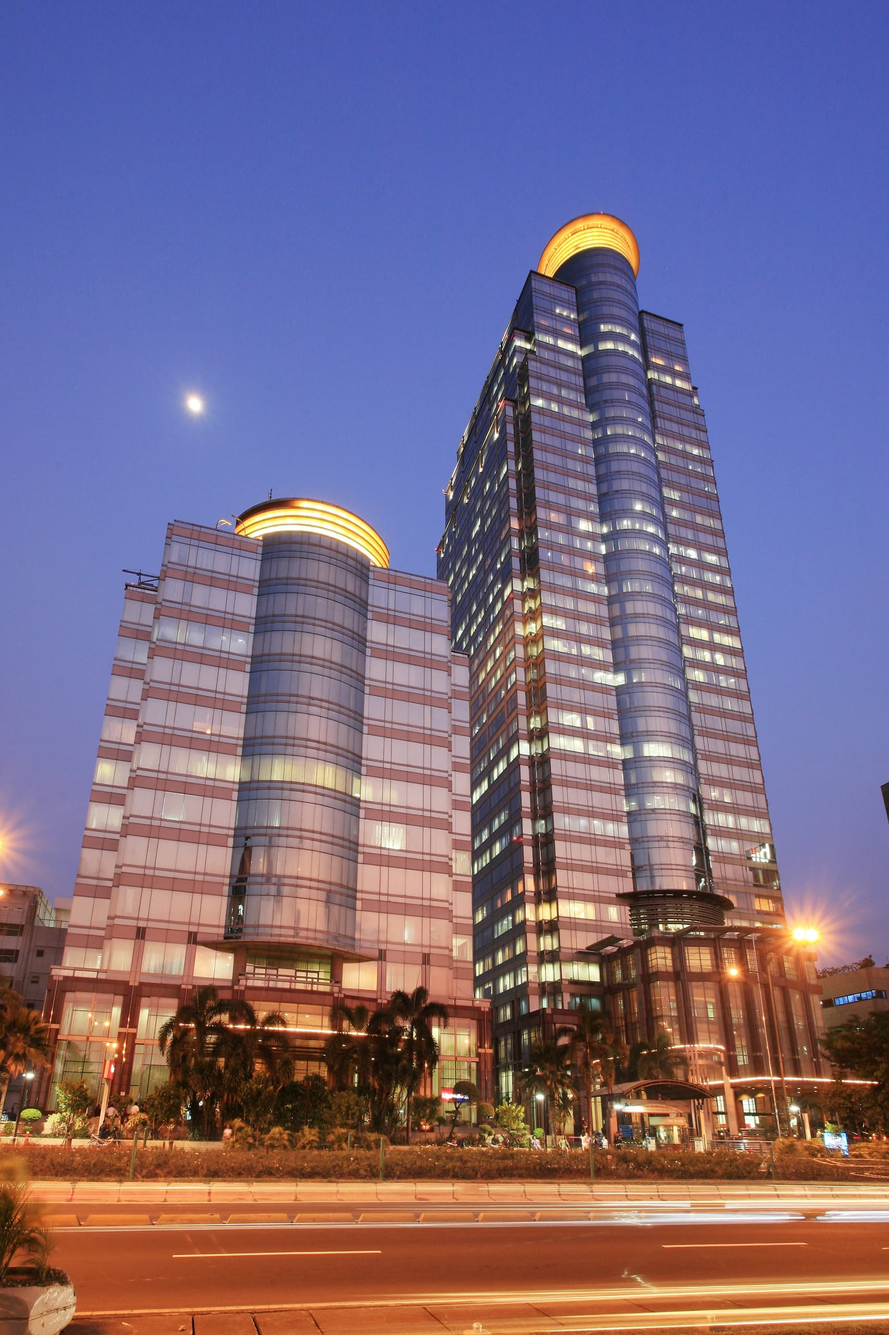
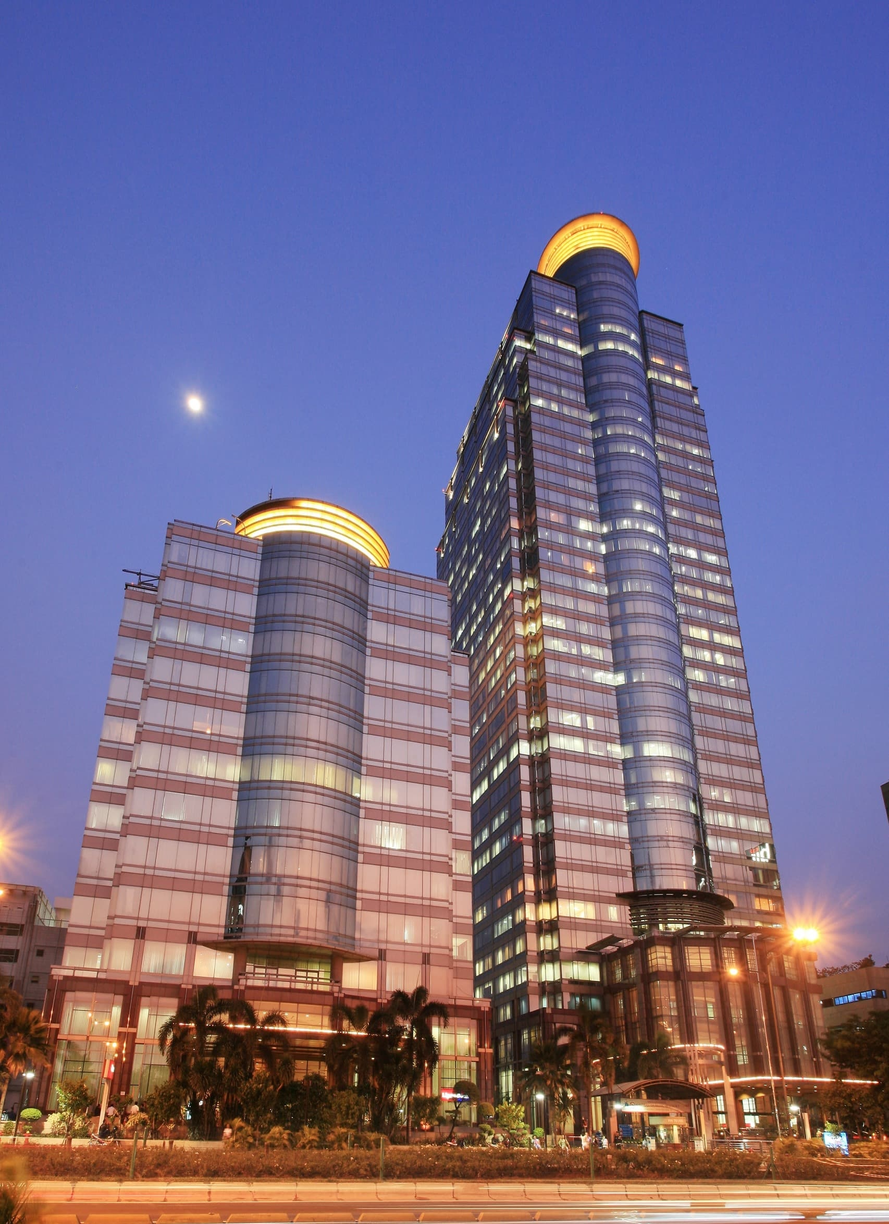
Merged PR 9779: User Story 13688: UI login page and file name masking
User Story 13688: UI login page and file name masking

![CleanShot 2025-12-04 at 15.25.10@2x.png](blob:https://dev.azure.com/c67b3a33-1158-4939-984c-53d381a8783d)

diff --git a/src/components/search-result-item.tsx b/src/components/search-result-item.tsx
@@ -12,7 +12,7 @@ type Props = {
 
 export default function SearchResultItem({ result }: Props) {
   if (result.fileName.includes("****")) {
-    return <SearchResultItemPrivate result={result} />;
+    return <SearchResultItemMasked result={result} />;
   }
 
   return (
@@ -53,10 +53,49 @@ export default function SearchResultItem({ result }: Props) {
   );
 }
 
-export function SearchResultItemPrivate({ result }: Props) {
+export function SearchResultItemMasked({ result }: Props) {
+  const renderMaskedText = (text: string) => {
+    const parts = text.split(/(\*{2,})/);
+
+    return parts.map((part, index) => {
+      if (/^\*{2,}$/.test(part)) {
+        const width = Math.min(part.length * 8, 200);
+
+        return (
+          <span
+            key={index}
+            className="inline-block h-4 rounded-md bg-blue-100 align-middle"
+            style={{ width: `${width}px` }}
+          />
+        );
+      }
+
+      return <span key={index}>{part}</span>;
+    });
+  };
+
+  const renderMaskedPath = (path: string) => {
+    const parts = path.split(/(\*{2,})/);
+
+    return parts.map((part, index) => {
+      if (/^\*{2,}$/.test(part)) {
+        const width = Math.min(part.length * 6, 150);
+
+        return (
+          <span
+            key={index}
+            className="inline-block h-3 rounded-md bg-muted align-middle"
+            style={{ width: `${width}px` }}
+          />
+        );
+      }
+
+      return <span key={index}>{part}</span>;
+    });
+  };
+
   return (
     <div className="w-full border-b border-muted pb-6">
-      {/* top row: icon + meta (email, path) */}
       <div className="flex items-center gap-4 mb-3">
         <div className="shrink-0 p-1 bg-muted rounded-full">
           <Image
@@ -68,25 +107,22 @@ export function SearchResultItemPrivate({ result }: Props) {
           />
         </div>
         <div className="flex flex-col min-w-0 gap-1">
-          {/* ownerEmail */}
           <TypographyP className="text-sm truncate gap-2 flex flex-row">
             {result.ownerEmail}
             <AccessBadge file={result} />
           </TypographyP>
-          {/* filePath */}
-          <Skeleton className="h-3 w-56 max-w-[70vw] rounded-md animate-none mt-1" />
+          <div className="text-xs text-muted-foreground mt-1 flex items-center gap-1">
+            {renderMaskedPath(result.filePath)}
+          </div>
         </div>
       </div>
 
-      {/* fileName */}
-      <h2 className="text-base font-semibold leading-snug flex items-center">
-        <p className="text-blue-600 wrap-break-word sm:truncate max-w-[calc(100vw-24px)] overflow-hidden">
-          {result.fileName.replace("****", "")}
-        </p>
-        <Skeleton className="h-4 w-3xs max-w-screen rounded-none rounded-r-md bg-blue-100 animate-none" />
+      <h2 className="text-base font-semibold leading-snug flex items-center gap-1">
+        <div className="text-blue-600 wrap-break-word flex items-center gap-1">
+          {renderMaskedText(result.fileName)}
+        </div>
       </h2>
 
-      {/* updatedTime */}
       <div className="text-sm mt-2 text-muted-foreground">
         <Skeleton className="h-4 w-28 rounded-md animate-none" />
       </div>
@@ -97,26 +133,20 @@ export function SearchResultItemPrivate({ result }: Props) {
 export function SearchResultItemSkeleton() {
   return (
     <div className="w-full border-b border-muted pb-6">
-      {/* top row: icon + meta (email, path) */}
       <div className="flex items-center gap-4 mb-3">
         <div className="shrink-0 p-1 bg-muted rounded-full">
-          {/* match the 32px wrapper w/ 24px image */}
           <Skeleton className="w-6 h-6 rounded-full" />
         </div>
         <div className="flex flex-col min-w-0 gap-1">
-          {/* ownerEmail */}
           <Skeleton className="h-4 w-40 max-w-[60vw] rounded-md" />
-          {/* filePath */}
           <Skeleton className="h-3 w-56 max-w-[70vw] rounded-md" />
         </div>
       </div>
 
-      {/* fileName */}
       <h2 className="text-base font-semibold leading-snug">
         <Skeleton className="h-4 w-3xs max-w-screen rounded-md bg-blue-100" />
       </h2>
 
-      {/* updatedTime */}
       <div className="text-sm mt-2 text-muted-foreground">
         <Skeleton className="h-4 w-28 rounded-md" />
       </div>

diff --git a/src/components/access-badge.tsx b/src/components/access-badge.tsx
@@ -17,7 +17,6 @@ export default async function AccessBadge({ file }: Props) {
     if (fileSource === "onedrive") {
       if (allowList.includes(user?.email ?? "") || user?.email === ownerEmail) {
         return {
-          color: "text-green-500",
           title: "Private: Full Access",
           iconPath: "/images/private-full-access.svg",
           svgColor:
@@ -26,7 +25,6 @@ export default async function AccessBadge({ file }: Props) {
       }
 
       return {
-        color: "text-red-500",
         title: "Private: Forbidden",
         iconPath: "/images/forbidden-access.svg",
         svgColor:
@@ -35,7 +33,6 @@ export default async function AccessBadge({ file }: Props) {
     }
 
     return {
-      color: "text-yellow-500",
       title: "Private: Restricted",
       iconPath: "/images/restricted-access.svg",
       svgColor:

diff --git a/src/app/login/page.tsx b/src/app/login/page.tsx
@@ -33,7 +33,6 @@ export default function Login() {
           alt="Sinarmas"
           src="/images/sml.jpeg"
           className="object-cover"
-          sizes="(max-width: 768px) 0vw, 50vw"
         />
       </aside>
       <section className="flex-1 w-full flex-col flex items-center justify-between py-16">
